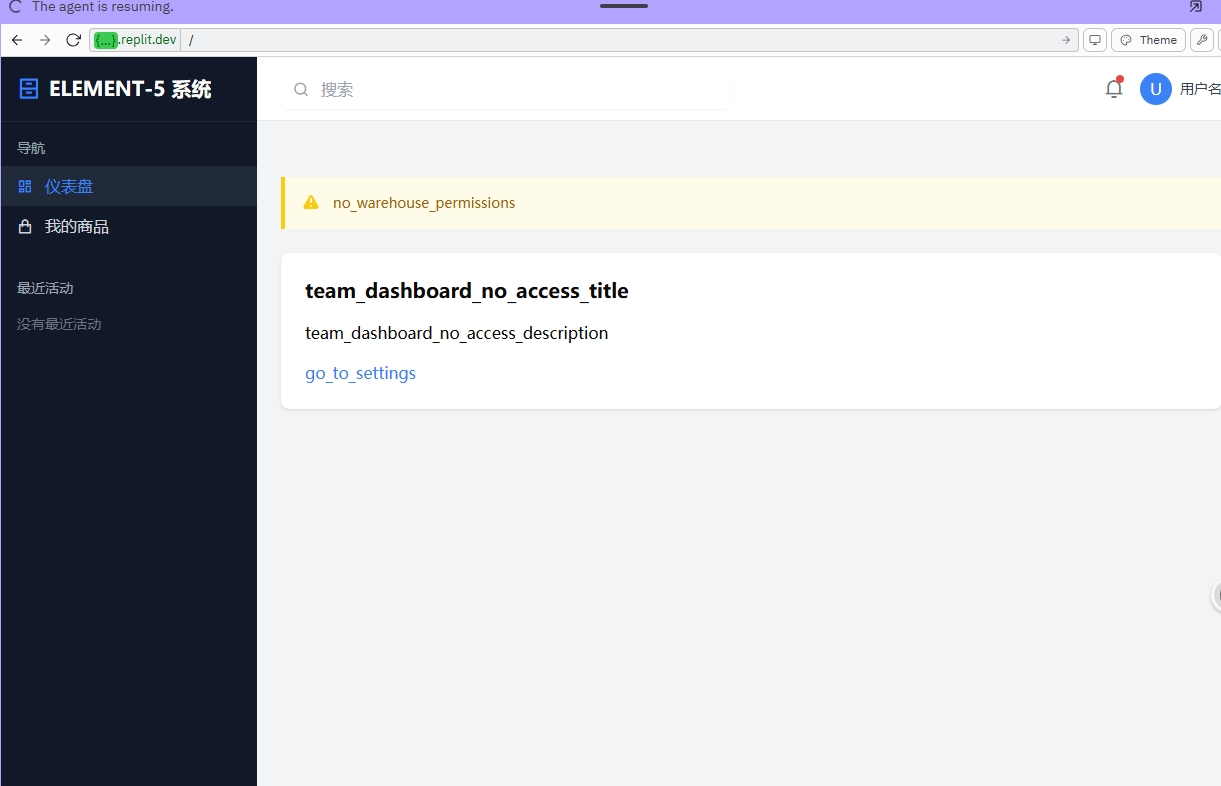
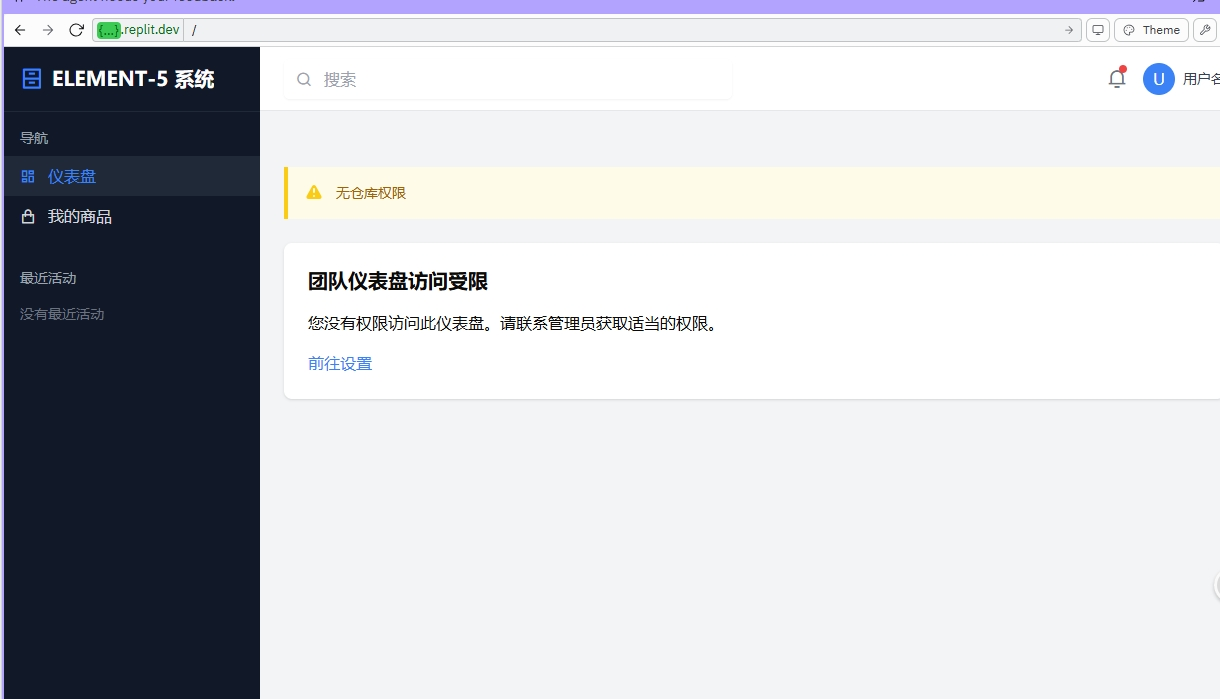
Enhance user interface with improved user authentication display and logout functionality.
Replit-Commit-Author: Agent
Replit-Commit-Session-Id: fdf91191-2dab-4f33-96dd-ea85c27e37cc
Replit-Commit-Screenshot-Url: https://storage.googleapis.com/screenshot-production-us-central1/02747779-55b8-4c50-aad4-a7eafbc2972b/9c40b6ed-79dc-4765-afa3-8096cc181815.jpg

diff --git a/client/src/App.tsx b/client/src/App.tsx
@@ -70,6 +70,7 @@ function Sidebar() {
   const [pathname] = useLocation();
   const { t } = useTranslation();
   const { hasPagePermission, isLoading: isLoadingPermissions } = usePermissions();
+  const { isAuthenticated, realAuthenticated, user } = useAuthStatus();
 
   interface Activity {
     id: number;
@@ -153,9 +154,6 @@ function Sidebar() {
     '/settings': 'settings'
   };
   
-  // 获取用户认证状态
-  const { isAuthenticated, realAuthenticated } = useAuthStatus();
-
   // 判断哪些菜单项需要真实登录
   const requiresAuth = (href: string): boolean => {
     // 首页和仪表盘总是可以访问
@@ -251,6 +249,7 @@ function AppLayout({ children }: { children: React.ReactNode }) {
   const [isMobileSidebarOpen, setIsMobileSidebarOpen] = useState(false);
   const { t } = useTranslation();
   const [_, navigate] = useLocation();
+  const { isAuthenticated, user, logout } = useAuthStatus();
   
   // 响应式布局处理
   const [isSmallScreen, setIsSmallScreen] = useState(false);
@@ -321,14 +320,37 @@ function AppLayout({ children }: { children: React.ReactNode }) {
               <span className="absolute top-0 right-0 h-2 w-2 rounded-full bg-red-500"></span>
             </div>
             
-            <div className="flex items-center">
-              <div className="h-8 w-8 rounded-full bg-blue-500 flex items-center justify-center text-white">
-                <span>U</span>
+            {isAuthenticated ? (
+              <div className="flex items-center">
+                <div className="h-8 w-8 rounded-full bg-blue-500 flex items-center justify-center text-white">
+                  <span>{user?.username?.charAt(0).toUpperCase() || 'U'}</span>
+                </div>
+                <span className="ml-2 text-sm font-medium text-gray-700 hidden md:inline-block">
+                  {user?.fullName || user?.username || '用户'}
+                </span>
+                <button 
+                  onClick={() => {
+                    if (window.confirm("确定要退出登录吗？")) {
+                      fetch('/api/auth/logout', {
+                        method: 'POST',
+                        credentials: 'include'
+                      }).then(() => {
+                        localStorage.removeItem('currentUser');
+                        window.location.href = '/login';
+                      });
+                    }
+                  }}
+                  className="ml-3 text-sm text-red-500 hidden md:inline-block"
+                >
+                  退出
+                </button>
               </div>
-              <span className="ml-2 text-sm font-medium text-gray-700 hidden md:inline-block">
-                用户名
-              </span>
-            </div>
+            ) : (
+              <Link to="/login" className="flex items-center text-blue-600 hover:text-blue-800 font-medium">
+                <i className="ri-login-box-line mr-1"></i>
+                <span>登录</span>
+              </Link>
+            )}
           </div>
         </header>
         
